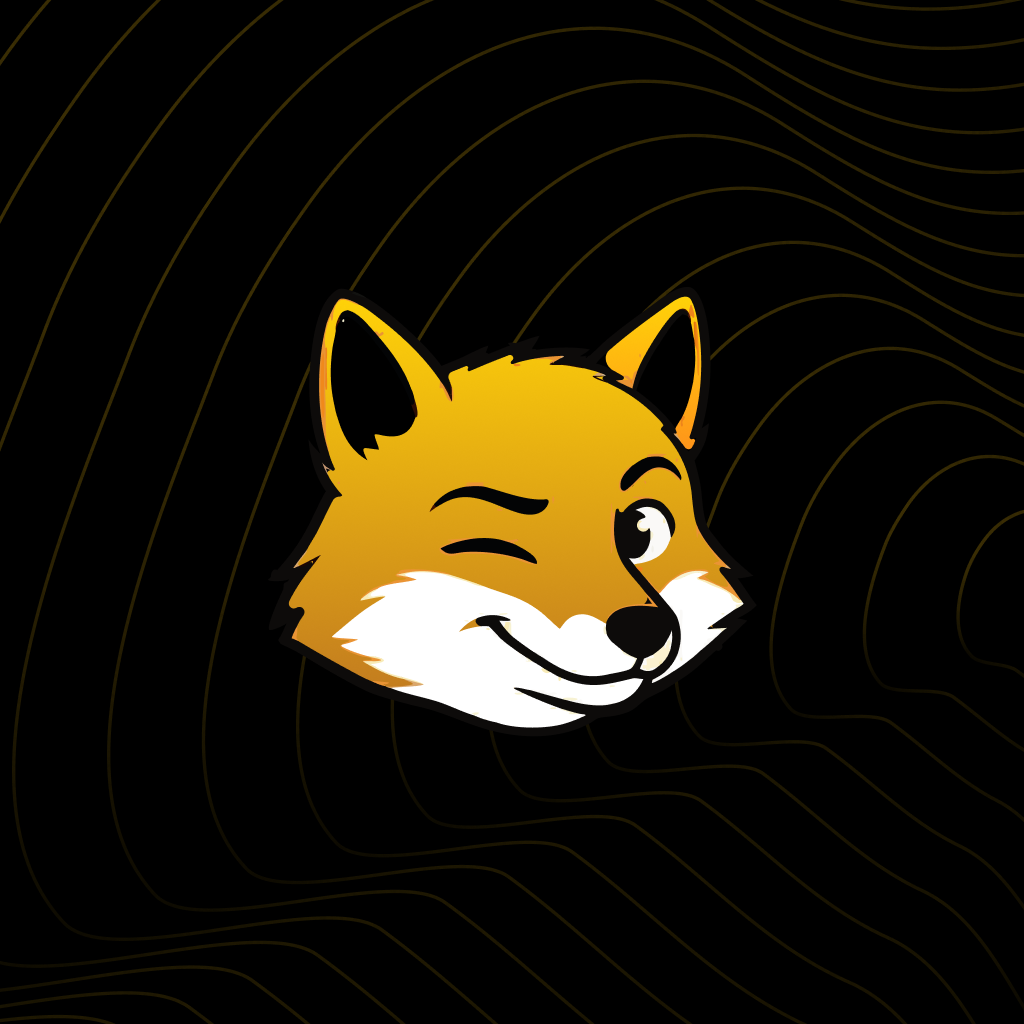
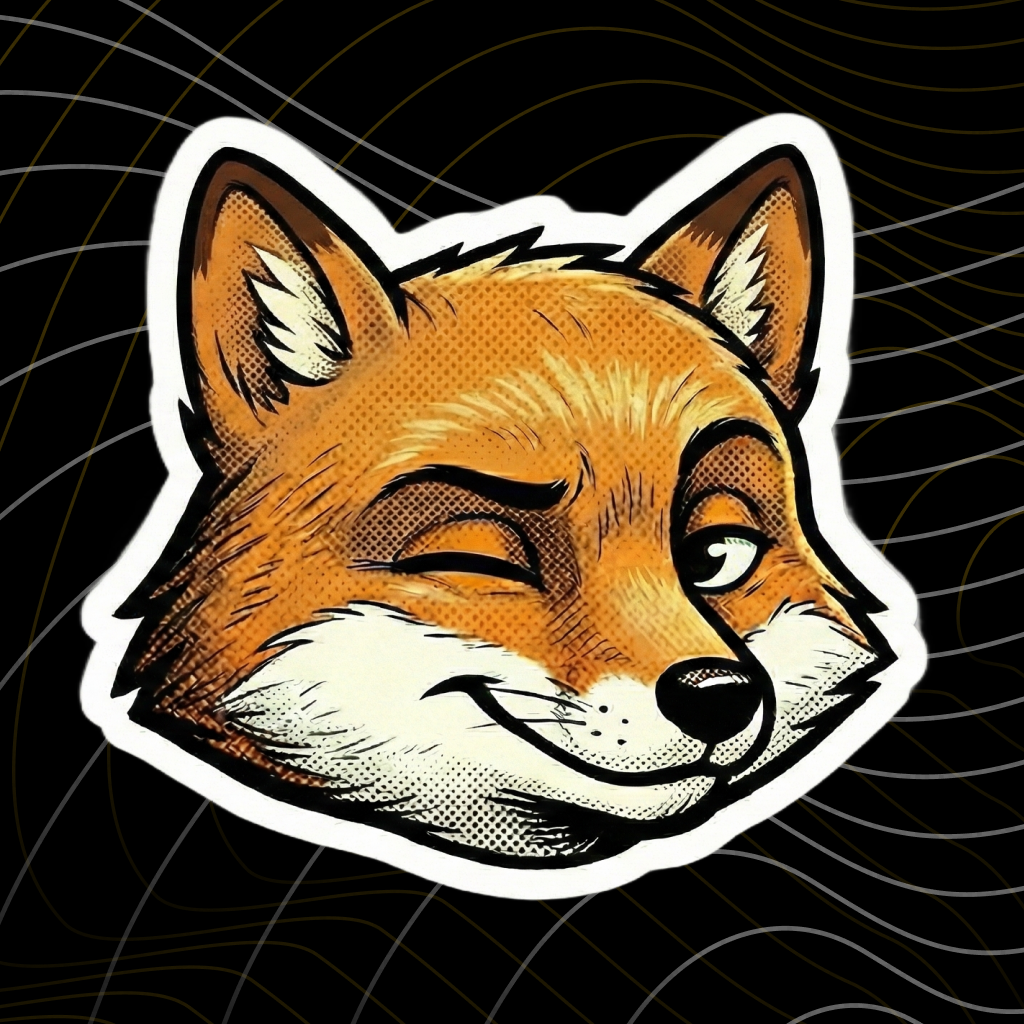
feat: Add swipeable value proposition carousel to start screen
- Carousel rotates through 4 value propositions every 4 seconds
- Each slide has unique character image (New3, Pizza, Sleeping, comixss)
- Smooth 0.8s crossfade animation with cubic-bezier easing
- Swipe left/right support for manual navigation
- Images centered at 0.85x scale (238px)
- Dot indicators show current slide

Also:
- Updated app icon for iOS and favicon assets
- Added android-chrome and apple-touch-icon variants

diff --git a/src/onboarding/StartStep.tsx b/src/onboarding/StartStep.tsx
@@ -1,28 +1,109 @@
-import { useState } from 'react'
+import { useState, useEffect, useRef, useCallback } from 'react'
 import { Mail, RefreshCw } from 'lucide-react'
 import { useOnboardingStore } from './store'
 import { Button } from './components'
 import '../Dashboard.css'
 import './onboarding.css'
 
-const HERO_IMAGE_URL = '/hero.png'
+// Value propositions for the carousel - each with unique image from /public/images/
+const VALUE_PROPS = [
+    {
+        headline: "Own your\nrecurring income.",
+        subtext: "No invoices. No chasing. Just recurring payments from the people who value you.",
+        image: "/images/New3.png"
+    },
+    {
+        headline: "Get paid from\nanywhere in the world.",
+        subtext: "Accept global subscriptions. We convert and deposit directly to your local bank.",
+        image: "/images/Pizza.png"
+    },
+    {
+        headline: "Everyone deserves\na payroll.",
+        subtext: "Freelancers, creators, coaches — get the consistent income you've earned.",
+        image: "/images/Sleeping.png"
+    },
+    {
+        headline: "Turn any bank account\ninto a salary account.",
+        subtext: "Get paid on schedule, every month, without the paperwork.",
+        image: "/images/comixss.png"
+    },
+]
+
+const ROTATION_INTERVAL = 4000 // 4 seconds per slide
 
 export default function StartStep() {
-    // Use selector to prevent re-renders when other state changes
     const nextStep = useOnboardingStore((s) => s.nextStep)
     const reset = useOnboardingStore((s) => s.reset)
     const email = useOnboardingStore((s) => s.email)
     const name = useOnboardingStore((s) => s.name)
     const [imageLoaded, setImageLoaded] = useState(false)
+    const [activeIndex, setActiveIndex] = useState(0)
+    const [isAnimating, setIsAnimating] = useState(false)
+    const intervalRef = useRef<ReturnType<typeof setInterval> | null>(null)
+    const touchStartRef = useRef<number | null>(null)
 
-    // Check if there's existing progress from a previous session
     const hasExistingProgress = Boolean(email || name)
+
+    // Start/restart auto-rotate timer
+    const startAutoRotate = useCallback(() => {
+        if (intervalRef.current) clearInterval(intervalRef.current)
+        intervalRef.current = setInterval(() => {
+            setIsAnimating(true)
+            setTimeout(() => {
+                setActiveIndex((prev) => (prev + 1) % VALUE_PROPS.length)
+                setIsAnimating(false)
+            }, 800)
+        }, ROTATION_INTERVAL)
+    }, [])
+
+    // Auto-rotate carousel on mount
+    useEffect(() => {
+        startAutoRotate()
+        return () => {
+            if (intervalRef.current) clearInterval(intervalRef.current)
+        }
+    }, [startAutoRotate])
+
+    // Navigate to specific slide
+    const goToSlide = useCallback((index: number) => {
+        if (isAnimating) return
+        setIsAnimating(true)
+        setTimeout(() => {
+            setActiveIndex(index)
+            setIsAnimating(false)
+        }, 800)
+        startAutoRotate() // Reset timer on manual navigation
+    }, [isAnimating, startAutoRotate])
+
+    // Swipe handlers
+    const handleTouchStart = (e: React.TouchEvent) => {
+        touchStartRef.current = e.touches[0].clientX
+    }
+
+    const handleTouchEnd = (e: React.TouchEvent) => {
+        if (touchStartRef.current === null) return
+        const touchEnd = e.changedTouches[0].clientX
+        const diff = touchStartRef.current - touchEnd
+        const threshold = 50 // minimum swipe distance
+
+        if (Math.abs(diff) > threshold) {
+            if (diff > 0) {
+                // Swipe left - next slide
+                goToSlide((activeIndex + 1) % VALUE_PROPS.length)
+            } else {
+                // Swipe right - previous slide
+                goToSlide((activeIndex - 1 + VALUE_PROPS.length) % VALUE_PROPS.length)
+            }
+        }
+        touchStartRef.current = null
+    }
 
     const handleStartOver = () => {
         reset()
-        // Small delay to ensure state is cleared before proceeding
         setTimeout(nextStep, 50)
     }
+
+    const currentProp = VALUE_PROPS[activeIndex]
 
     return (
         <div className="onboarding">
@@ -32,24 +113,46 @@ export default function StartStep() {
             <div className="onboarding-content">
                 <div className="start-step">
 
-                    {/* Hero Image with loading state */}
-                    <div className="start-hero">
+                    {/* Hero Image - swipeable carousel */}
+                    <div
+                        className="start-hero"
+                        onTouchStart={handleTouchStart}
+                        onTouchEnd={handleTouchEnd}
+                    >
                         {!imageLoaded && (
                             <div className="start-hero-placeholder" aria-hidden="true" />
                         )}
                         <img
-                            src={HERO_IMAGE_URL}
+                            src={currentProp.image}
                             alt="Hero"
+                            className={`carousel-image ${isAnimating ? 'fade-out' : 'fade-in'}`}
                             onLoad={() => setImageLoaded(true)}
-                            style={{ opacity: imageLoaded ? 1 : 0, transition: 'opacity 0.3s ease' }}
                         />
                     </div>
 
                     {/* Bottom section */}
                     <div className="start-bottom">
+                        {/* Carousel Text */}
                         <div className="start-text">
-                            <h1>Own your<br />recurring income.</h1>
-                            <p>No invoices. No chasing. Just recurring payments from the people who value you.</p>
+                            <h1
+                                className={`carousel-headline ${isAnimating ? 'fade-out' : 'fade-in'}`}
+                                style={{ whiteSpace: 'pre-line' }}
+                            >
+                                {currentProp.headline}
+                            </h1>
+                            <p className={`carousel-subtext ${isAnimating ? 'fade-out' : 'fade-in'}`}>
+                                {currentProp.subtext}
+                            </p>
+                        </div>
+
+                        {/* Carousel Dots */}
+                        <div className="carousel-dots">
+                            {VALUE_PROPS.map((_, index) => (
+                                <div
+                                    key={index}
+                                    className={`carousel-dot ${index === activeIndex ? 'active' : ''}`}
+                                />
+                            ))}
                         </div>
 
                         <div className="start-buttons">
@@ -63,7 +166,6 @@ export default function StartStep() {
                                 Continue with email
                             </Button>
 
-                            {/* Show Start Over option if there's existing progress */}
                             {hasExistingProgress && (
                                 <Button
                                     variant="ghost"
@@ -76,7 +178,6 @@ export default function StartStep() {
                             )}
                         </div>
 
-                        {/* Subtle legal text */}
                         <p className="start-legal">
                             By continuing, you agree to our{' '}
                             <a href="/terms" target="_blank" rel="noopener noreferrer">Terms</a>

diff --git a/src/onboarding/onboarding.css b/src/onboarding/onboarding.css
@@ -202,13 +202,17 @@
     justify-content: center;
     padding: var(--space-xl) 0;
     position: relative;
+    /* Fixed container - centered */
+    min-height: 250px;
+    max-height: 280px;
 }
 
 .start-hero img {
-    max-width: 616px;
-    max-height: 616px;
-    width: 80vw;
+    /* 0.85x scale (280 * 0.85 = 238) - centered */
+    width: 238px;
+    height: 238px;
     object-fit: contain;
+    margin: 0 auto;
 }
 
 /* Placeholder while hero image loads */
@@ -261,6 +265,75 @@
     max-width: 280px;
     margin-left: auto;
     margin-right: auto;
+}
+
+/* === CAROUSEL ANIMATIONS === */
+.carousel-headline,
+.carousel-subtext {
+    transition: opacity 0.8s cubic-bezier(0.4, 0, 0.2, 1);
+}
+
+.carousel-headline.fade-in,
+.carousel-subtext.fade-in {
+    opacity: 1;
+}
+
+.carousel-headline.fade-out,
+.carousel-subtext.fade-out {
+    opacity: 0;
+}
+
+/* Carousel Image - smooth crossfade, centered, 0.85x scale */
+.carousel-image {
+    transition: opacity 0.8s cubic-bezier(0.4, 0, 0.2, 1);
+    /* 0.85x scale (280 * 0.85 = 238) - centered */
+    width: 238px !important;
+    height: 238px !important;
+    object-fit: contain;
+    margin: 0 auto;
+    display: block;
+}
+
+.carousel-image.fade-in {
+    opacity: 1;
+}
+
+.carousel-image.fade-out {
+    opacity: 0;
+}
+
+/* Carousel Dots */
+.carousel-dots {
+    display: flex;
+    justify-content: center;
+    gap: 8px;
+    margin-top: var(--space-md);
+}
+
+.carousel-dot {
+    width: 8px;
+    height: 8px;
+    border-radius: 50%;
+    background: var(--neutral-300);
+    transition: background 0.3s ease, transform 0.3s ease;
+}
+
+.carousel-dot.active {
+    background: var(--neutral-900);
+    transform: scale(1.2);
+}
+
+/* Reduced motion */
+@media (prefers-reduced-motion: reduce) {
+
+    .carousel-headline,
+    .carousel-subtext {
+        transition: none;
+    }
+
+    .carousel-dot {
+        transition: none;
+    }
 }
 
 .start-buttons {
@@ -2710,7 +2783,9 @@ button.btn .spinning {
     text-align: center;
     margin-top: var(--space-lg);
     line-height: 1.5;
-}/* === PAYSTACK STYLES === */
+}
+
+/* === PAYSTACK STYLES === */
 .payment-methods-grid {
     display: flex;
     flex-direction: column;
